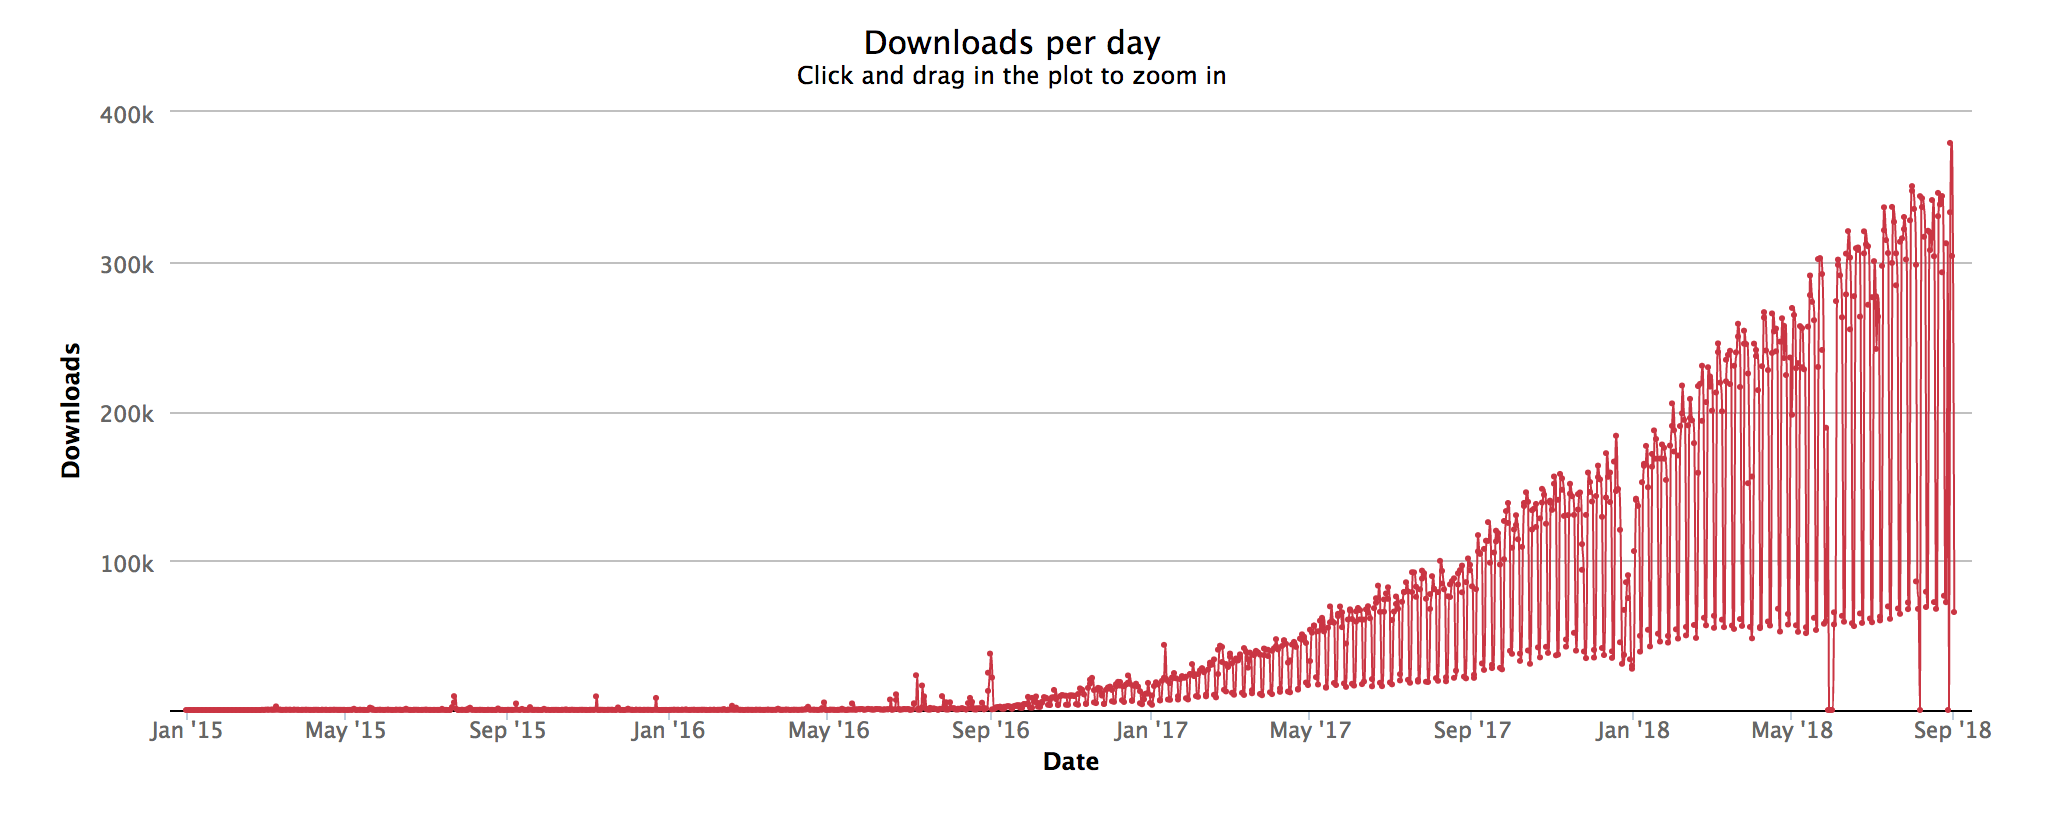
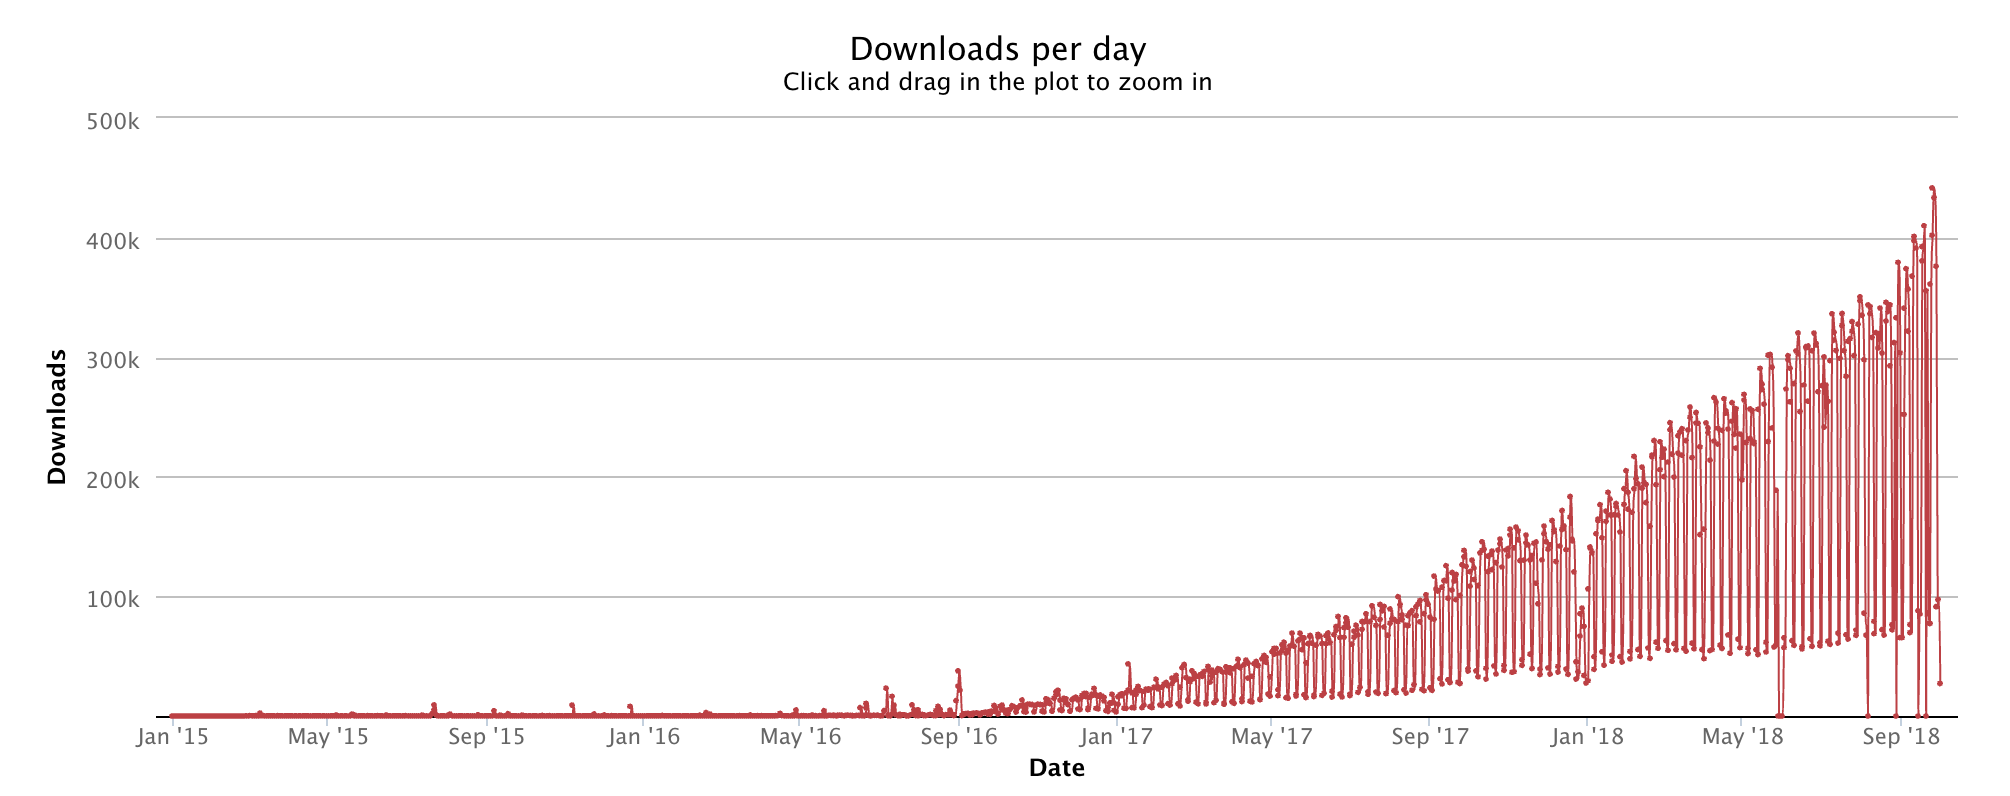
chore: update download stats

diff --git a/presentation/src/presentation.js b/presentation/src/presentation.js
@@ -34,6 +34,9 @@ import jasmineDownloadStatsImage from './static/jasmine.png';
 import tapeDownloadStatsImage from './static/tape.png';
 import avaDownloadStatsImage from './static/ava.png';
 
+import jestDownloadStatsNumbers from './static/jest-downloads.png';
+import mochaDownloadStatsNumbers from './static/mocha-downloads.png';
+
 import magicGif from './static/magic.gif';
 
 const theme = createTheme(
@@ -89,6 +92,8 @@ preload([
   jasmineDownloadStatsImage,
   tapeDownloadStatsImage,
   avaDownloadStatsImage,
+  jestDownloadStatsNumbers,
+  mochaDownloadStatsNumbers,
   magicGif,
 ]);
 
@@ -161,6 +166,7 @@ const Presentation = () => (
         <ul>
           <li>First release on npm, at least</li>
           <li>800 contributors on September 23rd</li>
+          <li>829 contributors on October 25th</li>
         </ul>
       </Notes>
       <Heading>What is Jest?</Heading>
@@ -171,41 +177,55 @@ const Presentation = () => (
         <ListItem>
           Blazing fast <Emoji emoji="🔥" label="blazing fast" />
         </ListItem>
-        <ListItem>800 different contributors</ListItem>
+        <ListItem>800+ different contributors</ListItem>
       </List>
     </Slide>
     <Slide>
-      <Notes>Charts are from January 1st 2015 to September 1st 2018</Notes>
+      <Notes>Charts are from January 1st 2015 to October 1st 2018</Notes>
       <Heading>Mocha</Heading>
-      <Link href="https://npm-stat.com/charts.html?package=mocha&from=2015-01-01&to=2018-09-01">
+      <Link href="https://npm-stat.com/charts.html?package=mocha&from=2015-01-01&to=2018-10-01">
         <Image src={mochaDownloadStatsImage} />
       </Link>
     </Slide>
     {/*
     <Slide>
       <Heading>Jasmine</Heading>
-      <Link href="https://npm-stat.com/charts.html?package=jasmine-core&from=2015-01-01&to=2018-09-01">
+      <Link href="https://npm-stat.com/charts.html?package=jasmine-core&from=2015-01-01&to=2018-10-01">
         <Image src={jasmineDownloadStatsImage} />
       </Link>
     </Slide>
     <Slide>
       <Heading>Tape</Heading>
-      <Link href="https://npm-stat.com/charts.html?package=tape&from=2015-01-01&to=2018-09-01">
+      <Link href="https://npm-stat.com/charts.html?package=tape&from=2015-01-01&to=2018-10-01">
         <Image src={tapeDownloadStatsImage} />
       </Link>
     </Slide>
     <Slide>
       <Heading>Ava</Heading>
-      <Link href="https://npm-stat.com/charts.html?package=ava&from=2015-01-01&to=2018-09-01">
+      <Link href="https://npm-stat.com/charts.html?package=ava&from=2015-01-01&to=2018-10-01">
         <Image src={avaDownloadStatsImage} />
       </Link>
     </Slide>
     */}
     <Slide>
       <Heading>Jest</Heading>
-      <Link href="https://npm-stat.com/charts.html?package=jest&from=2015-01-01&to=2018-09-01">
+      <Link href="https://npm-stat.com/charts.html?package=jest&from=2015-01-01&to=2018-10-01">
         <Image src={jestDownloadStatsImage} />
       </Link>
+    </Slide>
+    <Slide>
+      <Notes>
+        <ul>
+          <li>1 month ago I said end of year</li>
+        </ul>
+      </Notes>
+      <Heading>The numbers</Heading>
+      <div style={{ width: '50%', display: 'inline-block' }}>
+        <Image src={jestDownloadStatsNumbers} />
+      </div>
+      <div style={{ width: '50%', display: 'inline-block' }}>
+        <Image src={mochaDownloadStatsNumbers} />
+      </div>
     </Slide>
     <Slide>
       <Notes>
@@ -511,7 +531,7 @@ const Presentation = () => (
       <Notes>
         <span>Watch mode fix eslint</span>
       </Notes>
-      <CenterTwitterEmbed id="1005125357844905984" />
+      <CenterTwitterEmbed id="1054060129836920832" />
     </Slide>
     <Slide transition={['fade']}>
       <Heading>Summary</Heading>
